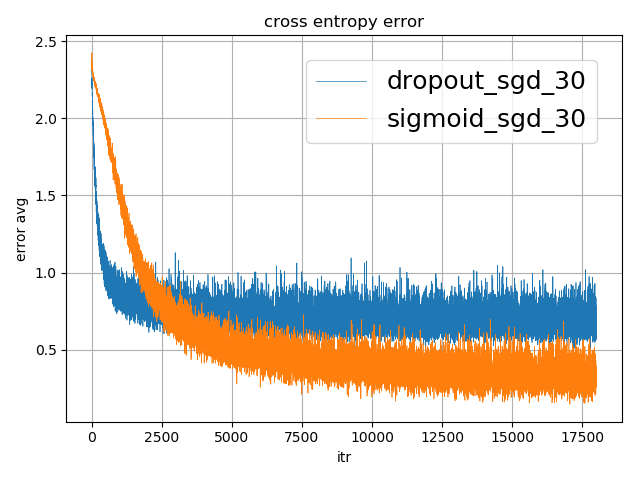
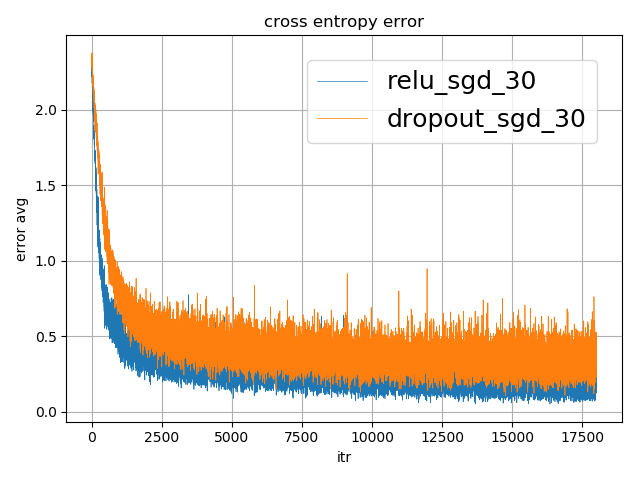
edit: plot accuracy in train data

diff --git a/report_advanced_ex.tex b/report_advanced_ex.tex
@@ -250,7 +250,7 @@ class Dropout:
 
     """
     # the rate of dropout
-    rho = 0.2
+    rho = 0.5
 
     def __init__(self, nn):
         """ Initialize Dropout Class """
@@ -282,11 +282,11 @@ class Dropout:
  
  \subsubsection*{実行結果}
  
-バッチサイズ $100$、学習係数 $0.01$、エポック数 $30$ 、最適化手法をSGDにし、活性化関数をReLU関数にしたもの（ファイル名: param\_sigmoid\_sgd\_30.npz ）とDropout に設定したもの（ファイル名: param\_dropout\_sgd\_30.npz ）をそれぞれ学習させた。なおDropout において、無視するノードの割合であるパラメータ$\rho$は$\rho = 0.2$とした。横軸に学習回数、縦軸にクロスエントロピー誤差の平均値をとったグラフを作成したところ、以下の図 \ref{fig-A-2-1} のようになった。
+バッチサイズ $100$、学習係数 $0.01$、エポック数 $30$ 、最適化手法をSGDにし、活性化関数をReLU関数にしたもの（ファイル名: param\_relu\_sgd\_30.npz ）とDropout に設定したもの（ファイル名: param\_dropout\_sgd\_30.npz ）をそれぞれ学習させた。なおDropout において、無視するノードの割合であるパラメータ$\rho$は$\rho = 0.5$とした。横軸に学習回数、縦軸にクロスエントロピー誤差の平均値をとったグラフを作成したところ、以下の図 \ref{fig-A-2-1} のようになった。
 
-\image{シグモイド関数とDropout の比較}{report_a1-1.png}{fig-A-2-1}
+\image{ReLU関数とDropout の比較}{report_a2-1.png}{fig-A-2-1}
 
-図 \ref{fig-A-2-1} の青い線がシグモイド関数を用いた時のクロスエントロピー誤差の平均値の値、橙色の線がReLU関数を用いた時の値である。図 \ref{fig-A-2-1} からReLU関数を用いた時も正しく学習が進んでいることと、シグモイド関数を用いた時よりも学習が早く、また学習用データに対しての認識精度もシグモイド関数を用いた時より上がっていることがわかる。
+図 \ref{fig-A-2-1} の青い線がReLU関数を用いた時のクロスエントロピー誤差の平均値の値、橙色の線がDropoutを用いた時の値である。図 \ref{fig-A-2-1} から
 
 また、テストデータを用いて、param\_sigmoid\_sgd\_30.npz、param\_relu\_sgd\_30.npz のそれぞれに対して1000回テストを行ったところ認識精度は以下の表 \ref{table-A1-1} のようになった。
 

diff --git a/my_nn_learn.py b/my_nn_learn.py
@@ -583,7 +583,11 @@ def main():
 
     nn = NNLearn()
     nums = list(range(0, nn.X.size // nn.d))
-
+    correct = 0
+    incorrect = 0
+    epoch = 0
+    iteration_train = []
+    accuracy_train = []
     loss = np.array([])
     iteration = np.array([], dtype='int32')
 
@@ -642,10 +646,27 @@ def main():
         loss = np.append(loss, forward_data['avg_entropy'])
 
         if itr % nn.per_epoch == nn.per_epoch - 1:
+            # print loss
             plt.plot(iteration, loss)
             plt.title("entropy")
             plt.xlabel("itr")
             plt.ylabel("entropy")
+            plt.show()
+
+            # print accuracy
+            res = np.argmax(forward_data['y'], axis=0)
+            diff = res - t_label
+            correct += np.sum(diff == 0)
+            incorrect += np.sum(diff != 0)
+            accuracy = correct / (correct + incorrect)
+            epoch += 1
+            iteration_train = np.append(iteration_train, epoch)
+            accuracy_train = np.append(accuracy_train, accuracy)
+            plt.plot(iteration_train, accuracy_train)
+            plt.title("accuracy for train data")
+            plt.grid(True)
+            plt.xlabel("epoch")
+            plt.ylabel("accuracy")
             plt.show()
 
     # save parameters
